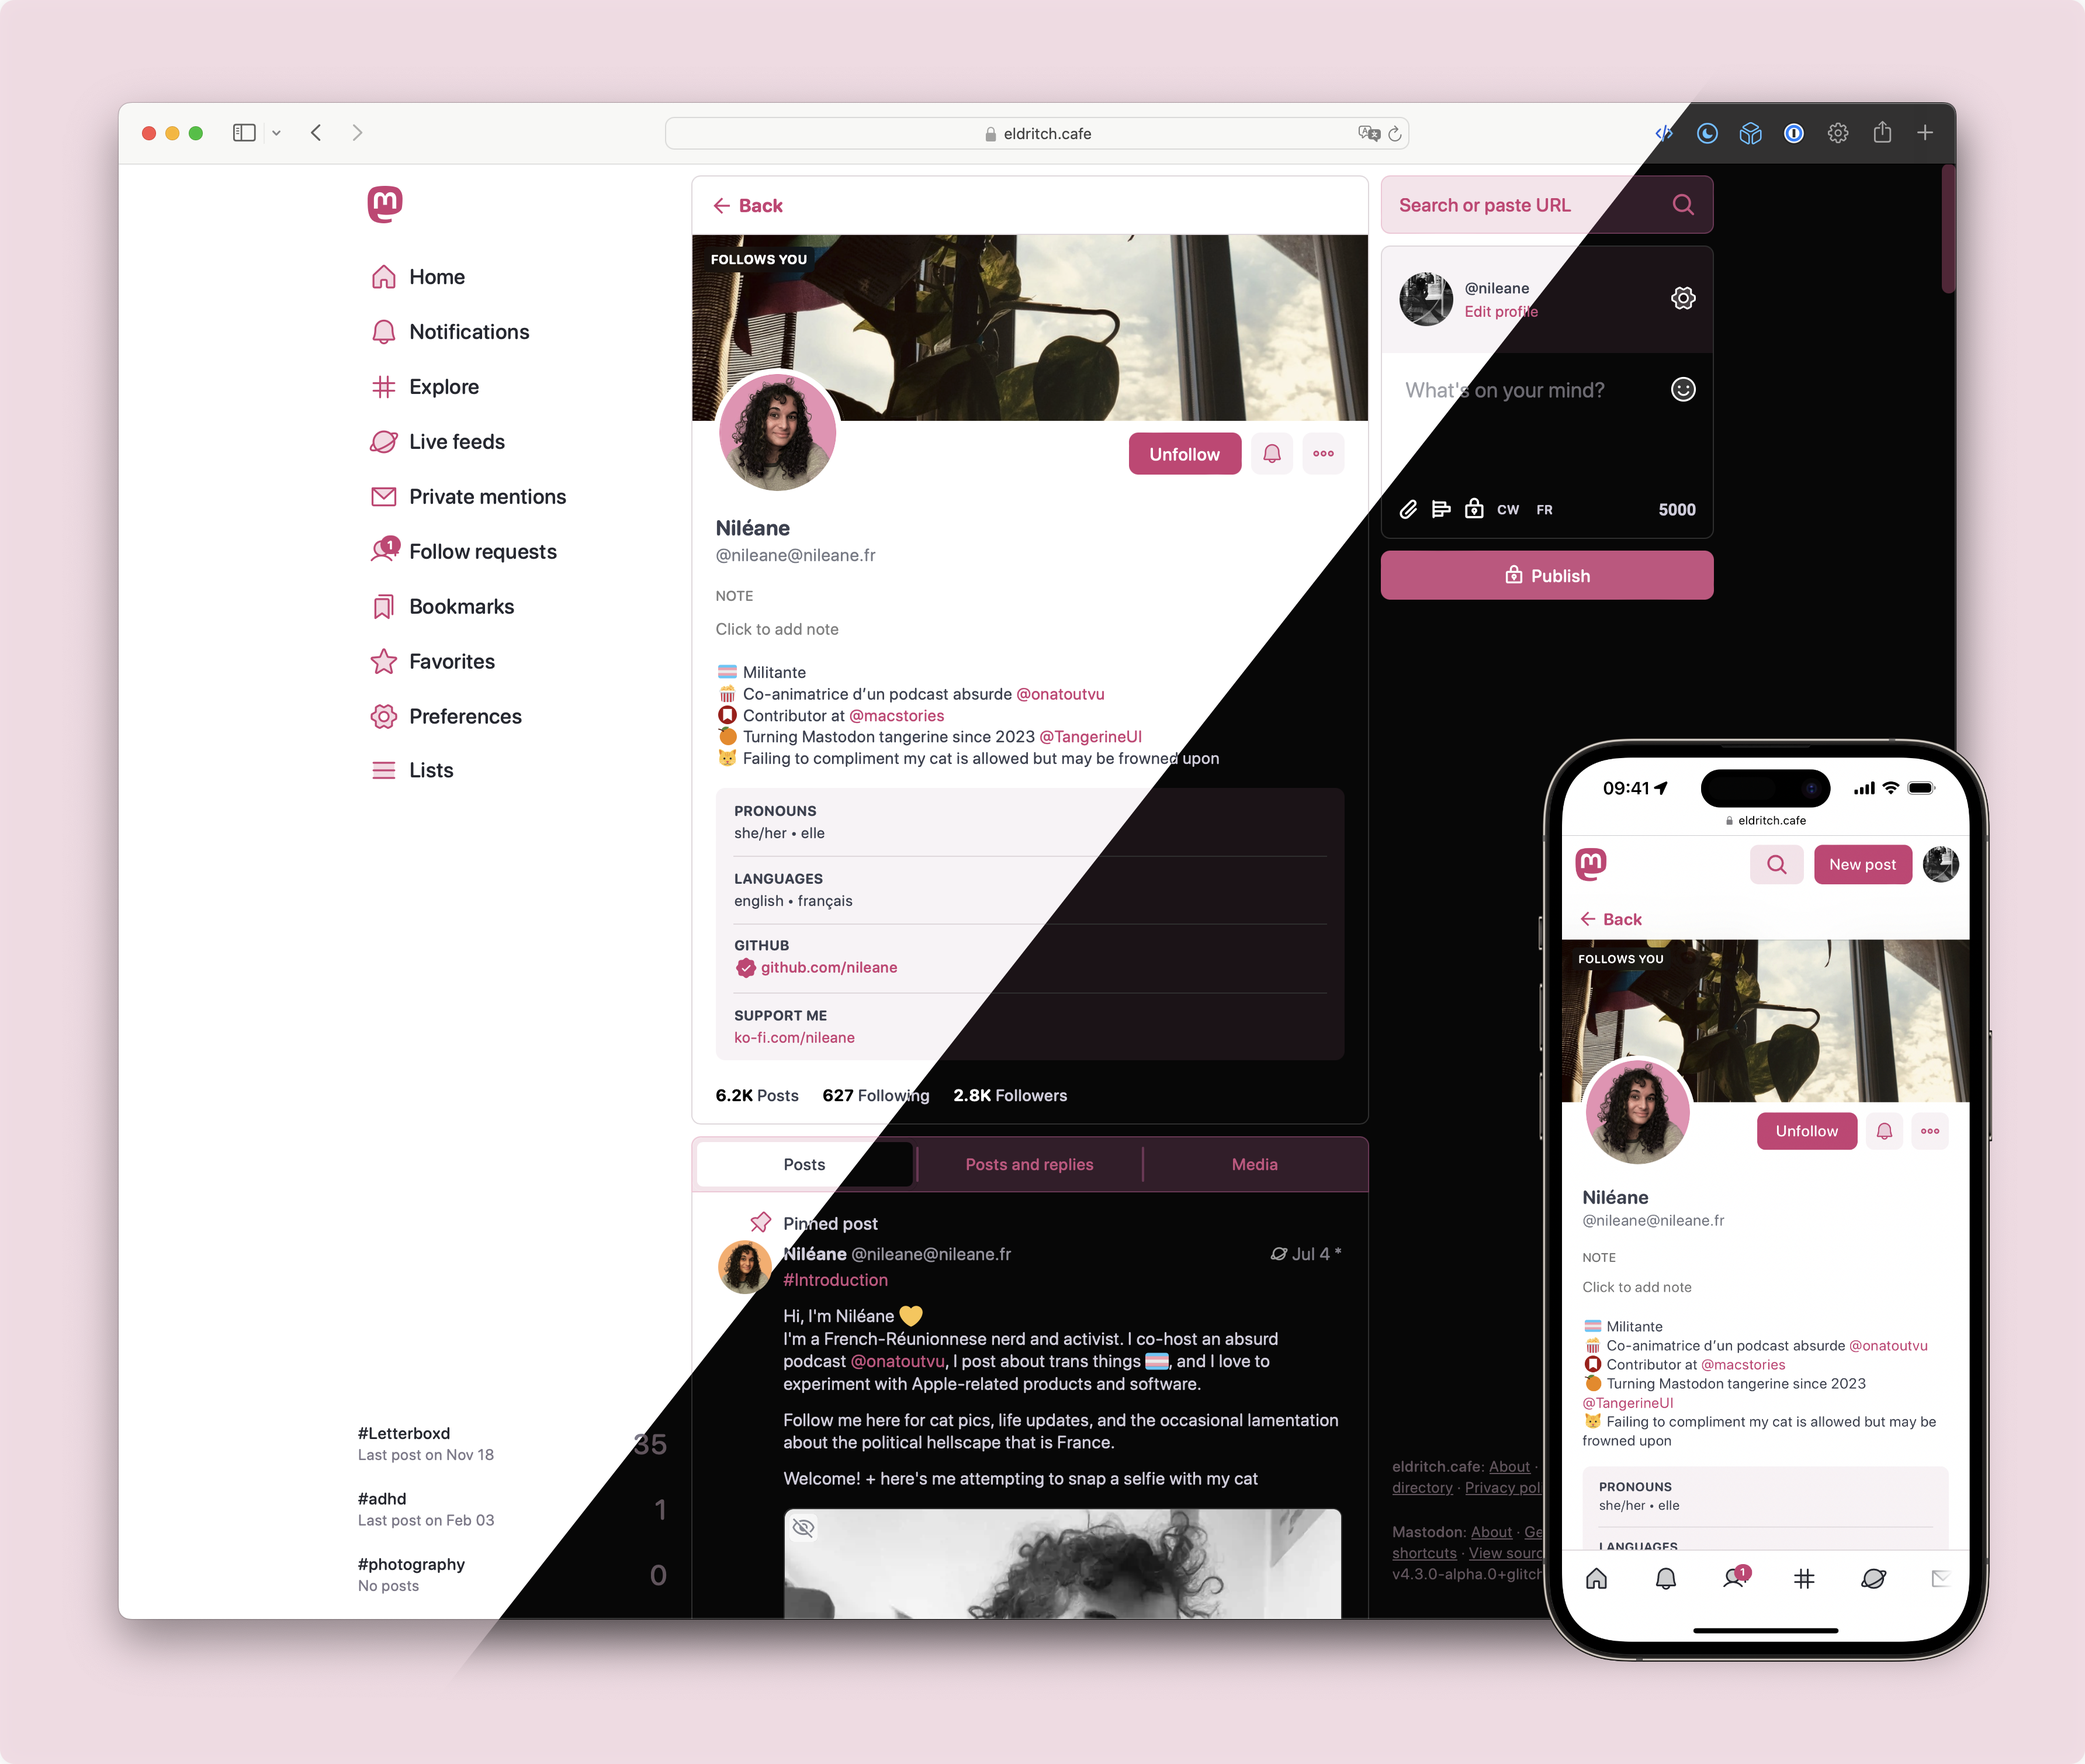
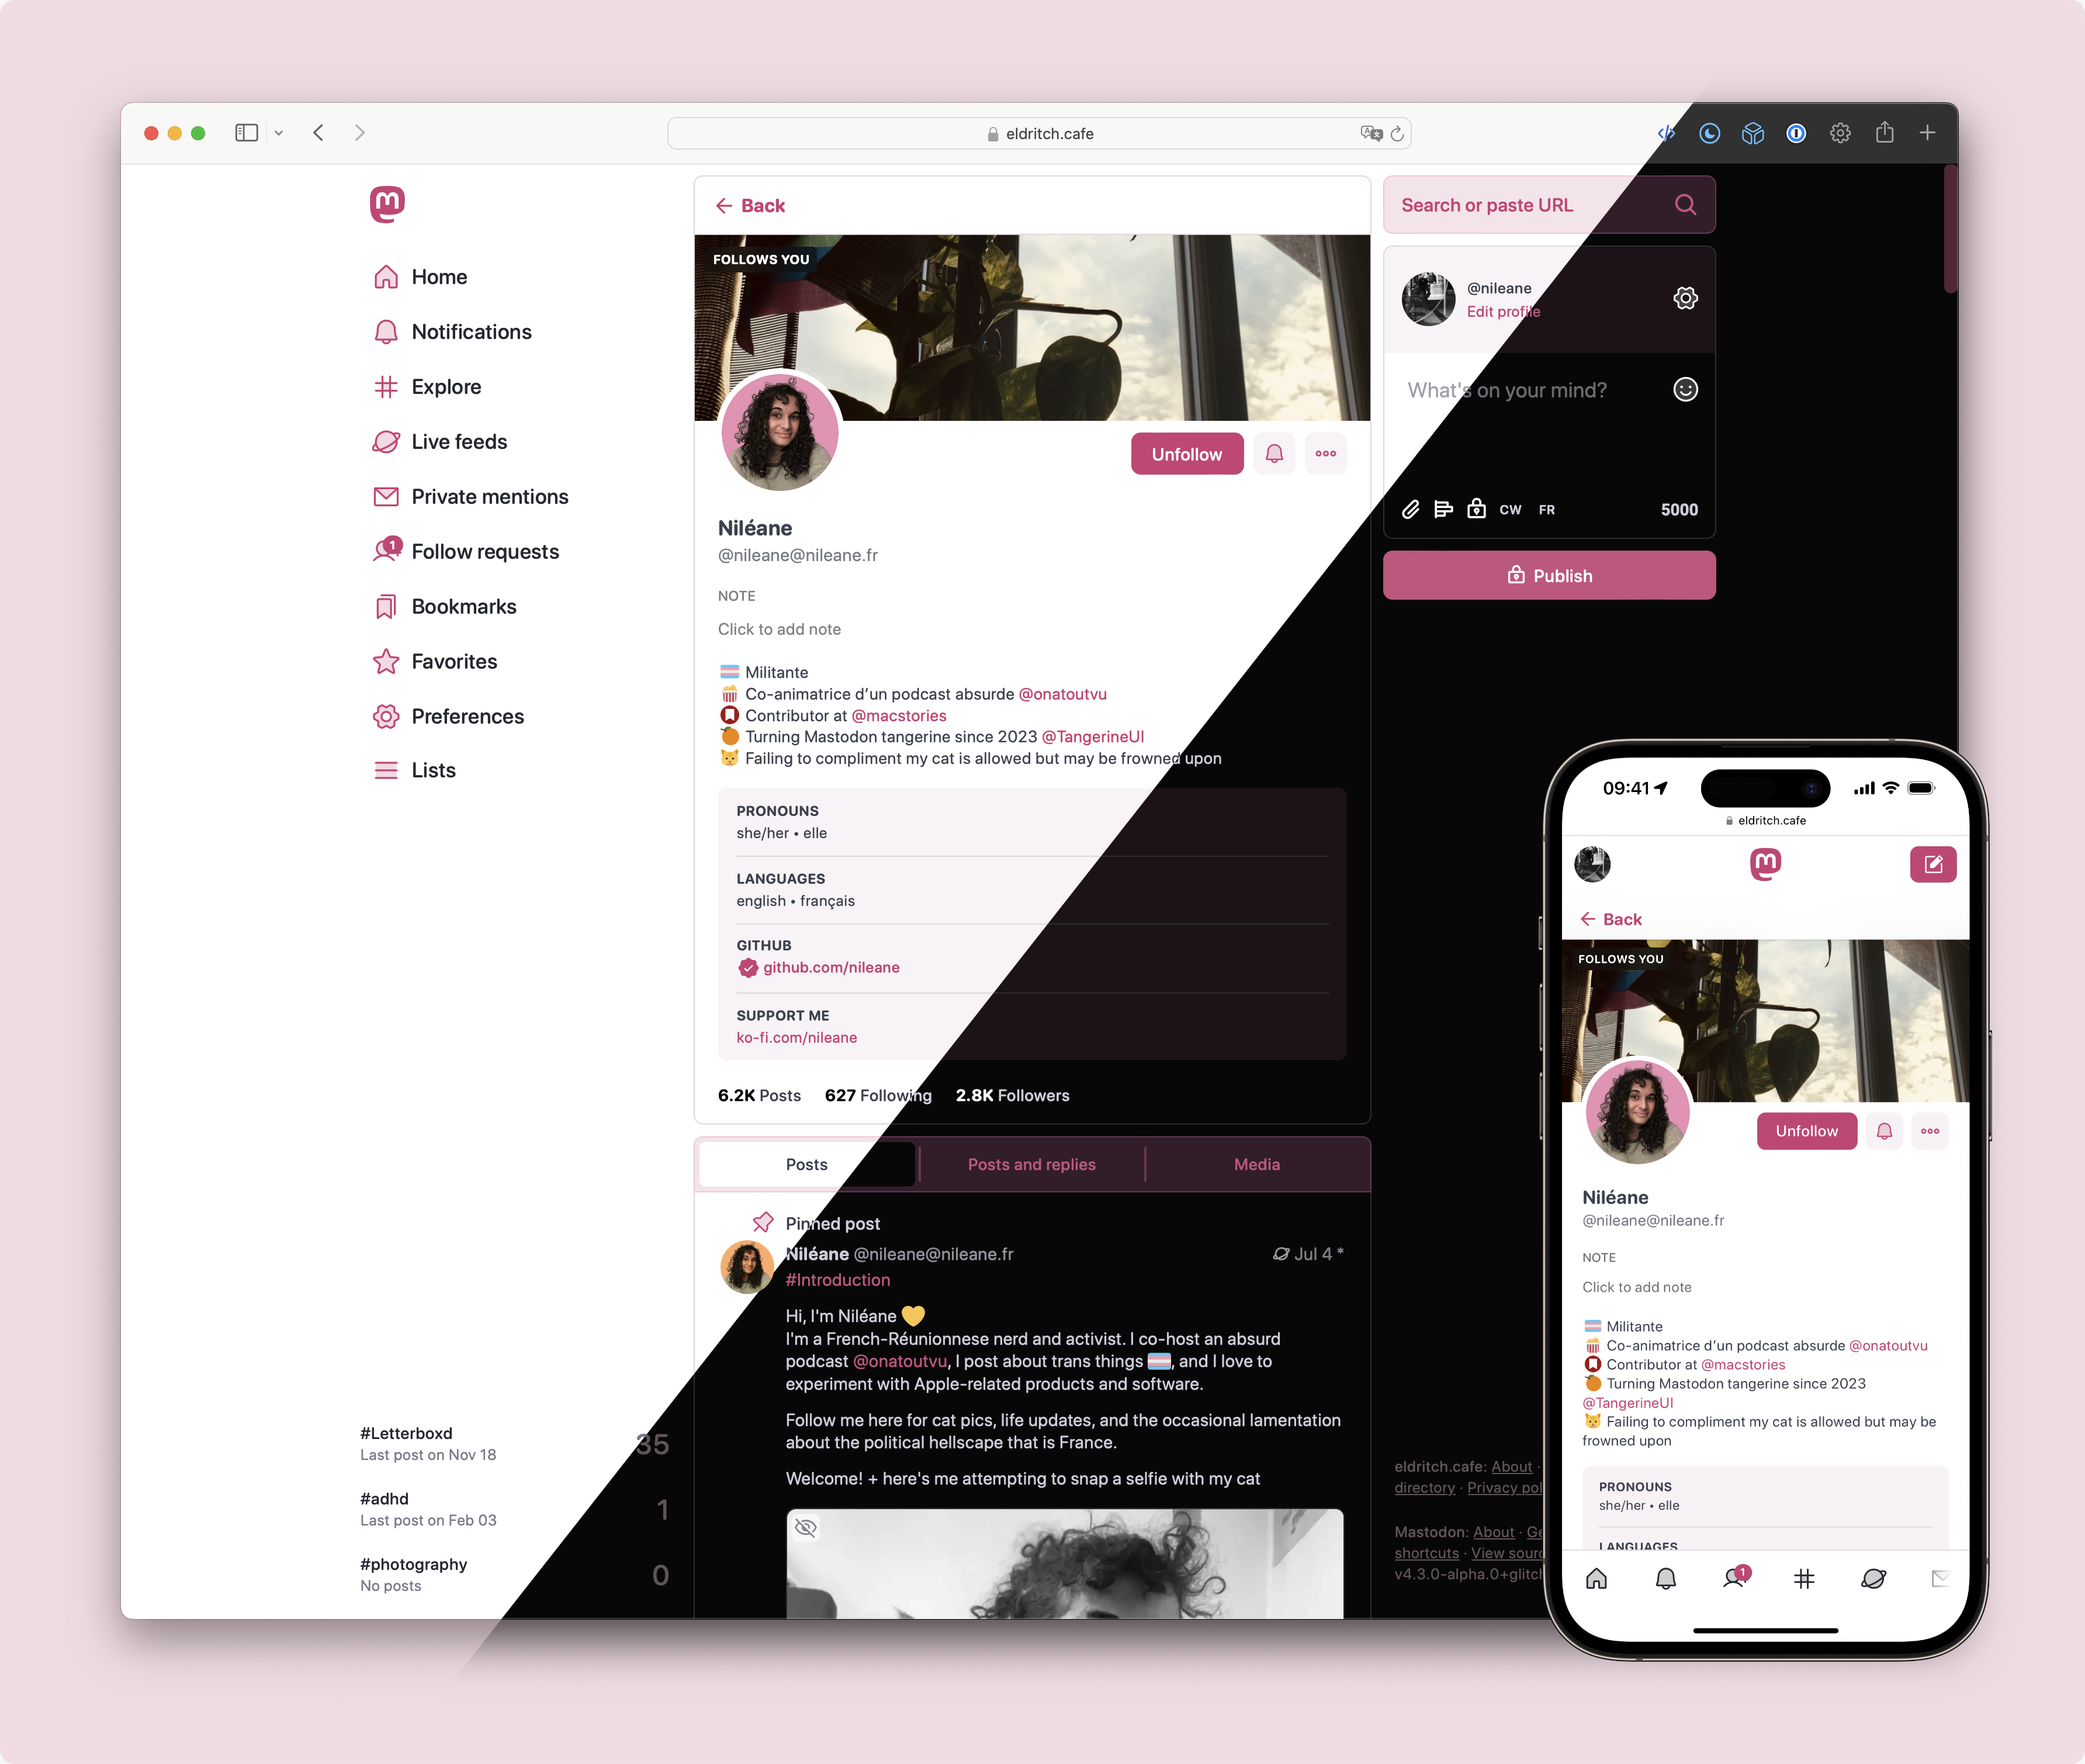
Revamped mobile header

diff --git a/TangerineUI-purple.css b/TangerineUI-purple.css
@@ -12,7 +12,7 @@
 
 /* 🎨 Colors */
 :root {
-    --color-bg: #ffffff /* #f2eff5 */;
+    --color-bg: #ffffff;
     --color-fg: #2a2d37;
     --color-fg-muted: #888494;
     --color-secondary-bg: #e8e4f2;
@@ -146,6 +146,7 @@
[4 lines of base64/hex data omitted]
 }
 @media (prefers-color-scheme: dark) {
     :root {
@@ -2096,7 +2097,10 @@ div[tabindex="-1"] + div[tabindex="-1"] > .status__wrapper > .status-reply.statu
         border-bottom: 0;
     }
     .app-body .ui__header__logo {
-        margin-left: 3px;
+        margin: 0;
+        position: absolute;
+        left: 50%;
+        transform: translateX(-50%);
     }
     .app-body .tabs-bar__wrapper {
         box-shadow: none;
@@ -2368,11 +2372,32 @@ div[tabindex="-1"] + div[tabindex="-1"] > .status__wrapper > .status-reply.statu
 .app-body .ui__header__links .button.button-secondary[href="/publish"] {
     background-color: var(--color-accent);
     color: var(--color-accent-fg);
+    width: 45px;
+    height: 35px;
+    box-sizing: border-box;
+    background-image: var(--icon-compose);
+    background-position: center;
+    background-repeat: no-repeat;
+    background-size: 22px;
 }
 .app-body .ui__header__links .button.button-secondary[href="/publish"]:is(:hover, :focus, :active) {
     background-color: var(--color-accent-focus);
     color: var(--color-accent-fg);
 }
+.app-body .ui__header__links .button.button-secondary[href="/publish"] span {
+    color: transparent;
+}
+
+@media screen and (max-width:1174px) {
+    .layout-single-column .ui__header__links .button.button-secondary[href="/publish"] {
+        position: absolute;
+        right: 12px;
+    }
+    .layout-single-column .ui__header__links {
+        padding-left: 12px;
+    }
+}
+
 .app-body .column-link--logo {
     margin-left: 4px;
 }

diff --git a/TangerineUI.css b/TangerineUI.css
@@ -12,7 +12,7 @@
 
 /* 🎨 Colors */
 :root {
-    --color-bg: #ffffff /* #f5f2ef */;
+    --color-bg: #ffffff;
     --color-fg: #2a2d37;
     --color-fg-muted: #948c84;
     --color-secondary-bg: #f2eae4;
@@ -146,6 +146,7 @@
[4 lines of base64/hex data omitted]
 }
 @media (prefers-color-scheme: dark) {
     :root {
@@ -2096,7 +2097,10 @@ div[tabindex="-1"] + div[tabindex="-1"] > .status__wrapper > .status-reply.statu
         border-bottom: 0;
     }
     .app-body .ui__header__logo {
-        margin-left: 3px;
+        margin: 0;
+        position: absolute;
+        left: 50%;
+        transform: translateX(-50%);
     }
     .app-body .tabs-bar__wrapper {
         box-shadow: none;
@@ -2368,11 +2372,32 @@ div[tabindex="-1"] + div[tabindex="-1"] > .status__wrapper > .status-reply.statu
 .app-body .ui__header__links .button.button-secondary[href="/publish"] {
     background-color: var(--color-accent);
     color: var(--color-accent-fg);
+    width: 45px;
+    height: 35px;
+    box-sizing: border-box;
+    background-image: var(--icon-compose);
+    background-position: center;
+    background-repeat: no-repeat;
+    background-size: 22px;
 }
 .app-body .ui__header__links .button.button-secondary[href="/publish"]:is(:hover, :focus, :active) {
     background-color: var(--color-accent-focus);
     color: var(--color-accent-fg);
 }
+.app-body .ui__header__links .button.button-secondary[href="/publish"] span {
+    color: transparent;
+}
+
+@media screen and (max-width:1174px) {
+    .layout-single-column .ui__header__links .button.button-secondary[href="/publish"] {
+        position: absolute;
+        right: 12px;
+    }
+    .layout-single-column .ui__header__links {
+        padding-left: 12px;
+    }
+}
+
 .app-body .column-link--logo {
     margin-left: 4px;
 }

diff --git a/TangerineUI-cherry.css b/TangerineUI-cherry.css
@@ -146,6 +146,7 @@
[4 lines of base64/hex data omitted]
 }
 @media (prefers-color-scheme: dark) {
     :root {
@@ -2096,7 +2097,10 @@ div[tabindex="-1"] + div[tabindex="-1"] > .status__wrapper > .status-reply.statu
         border-bottom: 0;
     }
     .app-body .ui__header__logo {
-        margin-left: 3px;
+        margin: 0;
+        position: absolute;
+        left: 50%;
+        transform: translateX(-50%);
     }
     .app-body .tabs-bar__wrapper {
         box-shadow: none;
@@ -2368,11 +2372,32 @@ div[tabindex="-1"] + div[tabindex="-1"] > .status__wrapper > .status-reply.statu
 .app-body .ui__header__links .button.button-secondary[href="/publish"] {
     background-color: var(--color-accent);
     color: var(--color-accent-fg);
+    width: 45px;
+    height: 35px;
+    box-sizing: border-box;
+    background-image: var(--icon-compose);
+    background-position: center;
+    background-repeat: no-repeat;
+    background-size: 22px;
 }
 .app-body .ui__header__links .button.button-secondary[href="/publish"]:is(:hover, :focus, :active) {
     background-color: var(--color-accent-focus);
     color: var(--color-accent-fg);
 }
+.app-body .ui__header__links .button.button-secondary[href="/publish"] span {
+    color: transparent;
+}
+
+@media screen and (max-width:1174px) {
+    .layout-single-column .ui__header__links .button.button-secondary[href="/publish"] {
+        position: absolute;
+        right: 12px;
+    }
+    .layout-single-column .ui__header__links {
+        padding-left: 12px;
+    }
+}
+
 .app-body .column-link--logo {
     margin-left: 4px;
 }

diff --git a/README.md b/README.md
@@ -32,21 +32,21 @@ Tangerine UI features a bubblier look, a more compact timeline, round avatars, a
 **🍊 Tangerine**  
 Default variant for Tangerine UI, featuring a soft orange palette.
 
-<img width="1784" alt="TangerineUI-tangerine" src="https://github.com/nileane/TangerineUI-for-Mastodon/assets/914451/9ab01706-3654-44d2-af2d-316e529ee30c">  
+<img width="1784" alt="TangerineUI-tangerine" src="./art/Screenshots/TangerineUI-tangerine.png">  
 &nbsp;
 
 
 **🪻 Purple**  
 For those of you who like Tangerine UI but want to stick to Mastodon's purple.
 
-<img width="1784" alt="TangerineUI-purple" src="https://github.com/nileane/TangerineUI-for-Mastodon/assets/914451/ff3bda75-4e13-4555-8be2-345aa9299357">  
+<img width="1784" alt="TangerineUI-purple" src="./art/Screenshots/TangerineUI-purple.png">  
 &nbsp;
 
 
 **🍒 Cherry**  
 I won't be held responsible if you end up licking your screen because of this one.
   
-<img width="1784" alt="TangerineUI-cherry" src="https://github.com/nileane/TangerineUI-for-Mastodon/assets/914451/3d5d9a35-87d5-437d-bfc8-1f49c7679908">  
+<img width="1784" alt="TangerineUI-cherry" src="./art/Screenshots/TangerineUI-cherry.png">  
 
 
 ## Features
